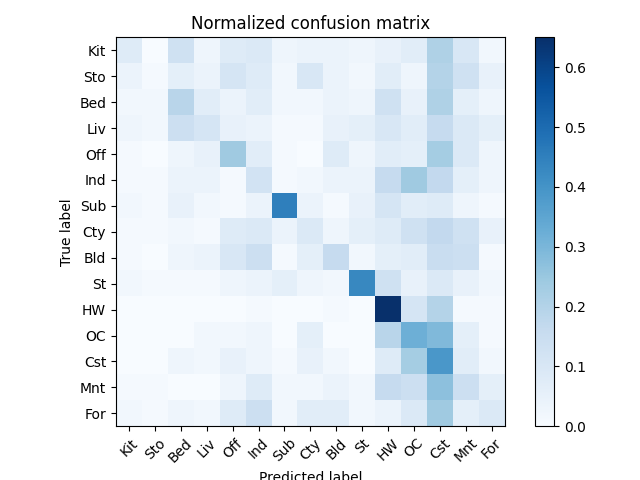
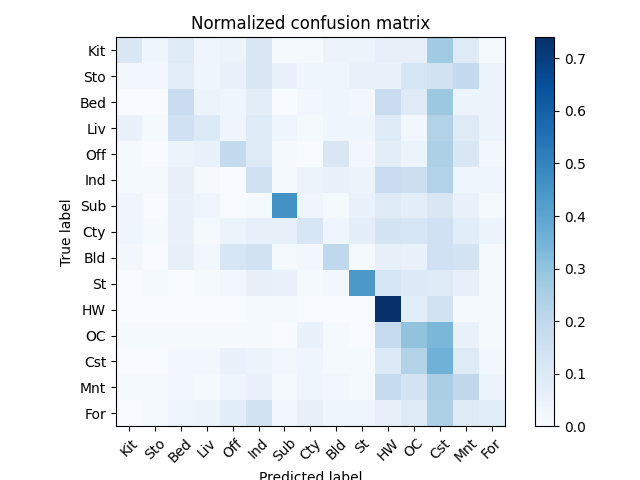
Use 24x24 tiny image feature

diff --git a/hw2/part1/get_tiny_images.py b/hw2/part1/get_tiny_images.py
@@ -1,6 +1,7 @@
 import cv2
 import numpy as np
 
+
 def get_tiny_images(image_paths):
     #############################################################################
     # To build a tiny image feature, simply resize the original image to a very #
@@ -9,19 +10,19 @@ def get_tiny_images(image_paths):
     # square portion out of each image. Making the tiny images zero mean and    #
     # unit length (normalizing them) will increase performance modestly.        #
     #############################################################################
-    '''
+    """
     Input :
         image_paths: a list(N) of string where each string is an image
         path on the filesystem.
     Output :
         tiny image features : (N, d) matrix of resized and then vectorized tiny
         images. E.g. if the images are resized to 16x16, d would equal 256.
-    '''
+    """
     n = len(image_paths)
-    tiny_images = np.zeros((n, 16*16))
+    tiny_images = np.zeros((n, 24 * 24))
     for i, path in enumerate(image_paths):
         img = cv2.imread(path, cv2.IMREAD_UNCHANGED)
-        resized = cv2.resize(img, (16, 16))
+        resized = cv2.resize(img, (24, 24))
         tiny_images[i, :] = resized.ravel()
 
     # zero mean
